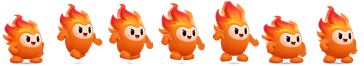
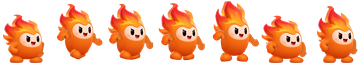
Use approved Ember v3.1.1 run and jump art in the opt-in preview

diff --git a/dev/ember-v31/README.md b/dev/ember-v31/README.md
@@ -1,4 +1,4 @@
-# Ember v3.1 controlled locomotion preview
+# Ember v3.1.1 controlled locomotion preview
 
 Run from this checkout with Node.js v22.23.5.
 
@@ -22,4 +22,4 @@ Once grounded horizontal movement stops, Ember settles by retracing the existing
 
 Run-start keeps the authored pivot. In the native-size Edge comparison a trial subpixel adjustment introduced a one-pixel wobble in the planted foot during acceleration. Foot shape also changes with the authored squash, so a mathematical contact centroid alone is insufficient to judge drift.
 
-The runtime shadow projects onto the nearest exposed solid surface beneath each part of its footprint. It fades and narrows with clearance and clips at platforms, pit lips and world edges. The jump strip itself also contains a small painted gray oval that stays with the feet. Removing it calls for an approved shadow-free export on the same canvases and pivots. The authored bounce from `run_03` to `run_04` also remains visible. The preview retains all sixteen run frames and the existing Fireball art switch.
+The runtime shadow projects onto the nearest exposed solid surface beneath each part of its footprint. It fades and narrows with clearance and clips at platforms, pit lips and world edges. The v3.1.1 art correction supplies seven shadow-free jump poses and adjusts the painted face on `run_03` and `run_04`. The manifest records the SHA-256 of the original v3.1 archive and the correction ZIP. Only the two verified 1× run and jump strips from the correction are loaded alongside the original idle and run-start strips.
